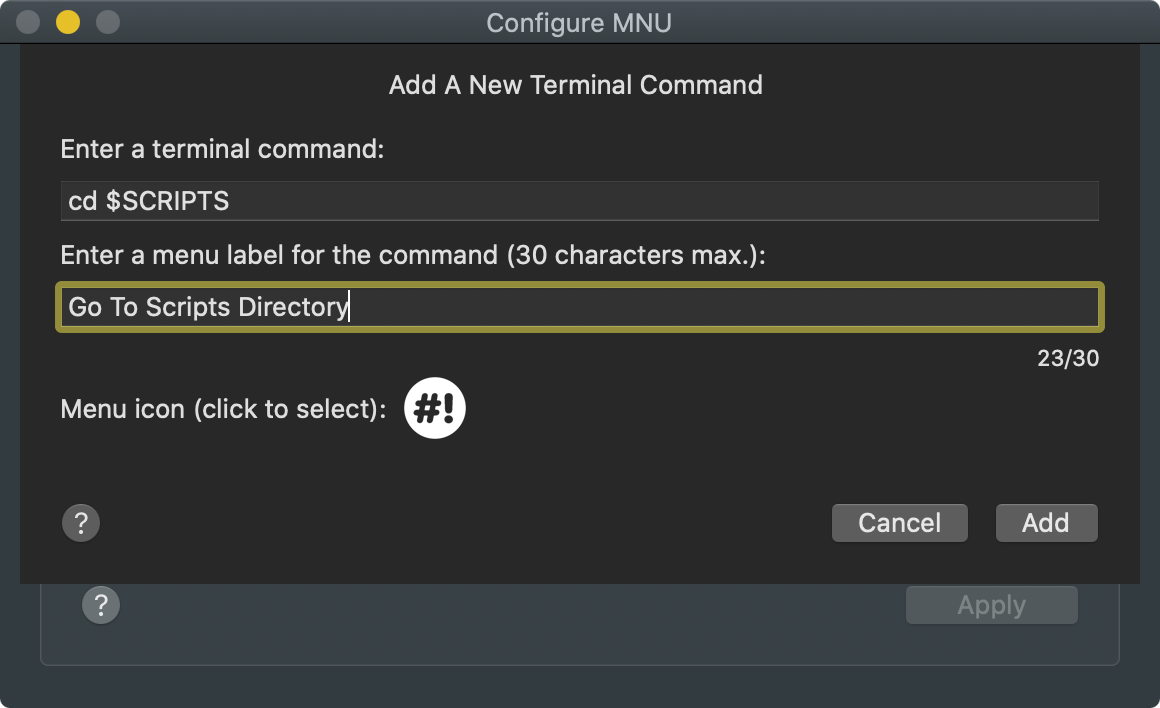
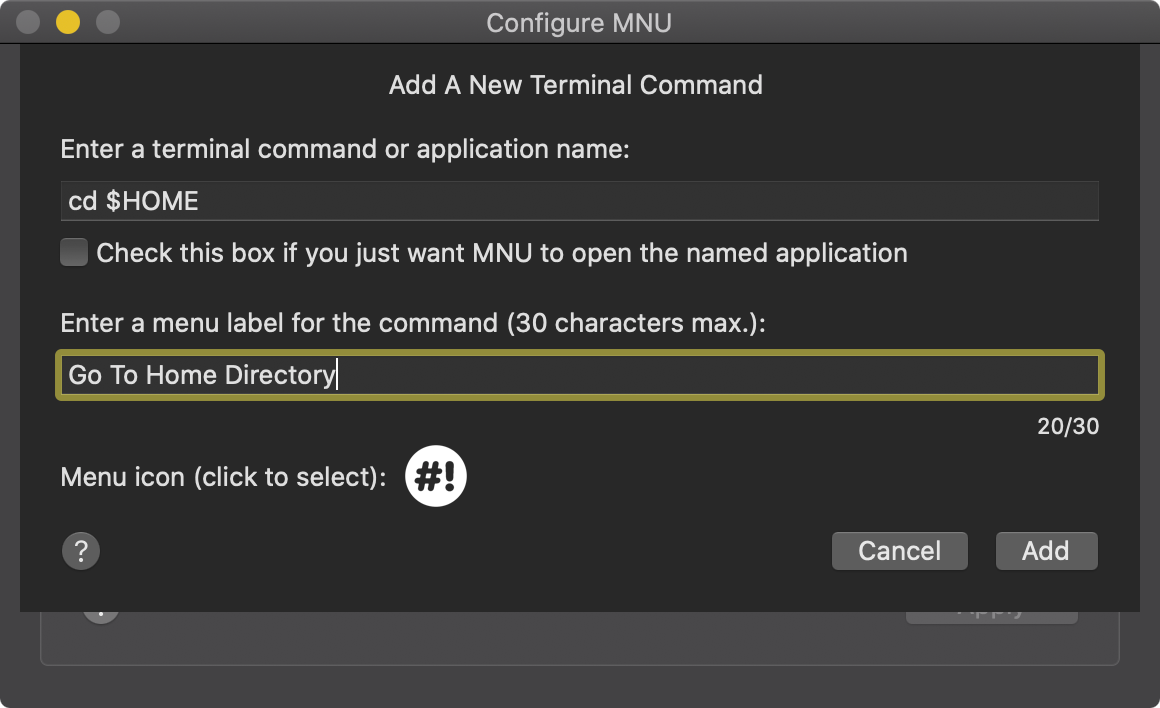
release mnu 1.2.0

diff --git a/mnu/index.html b/mnu/index.html
@@ -29,13 +29,13 @@
     <div class="collapse navbar-collapse" id="navbarNavAltMarkup">
         <ul class="nav navbar-nav mr-auto">
             
-            <li class="nav-item"><a class="nav-link" href="#using-mnu">Using MNU</a></li>
+            <li class="nav-item"><a class="nav-link" href="#how-to-use-mnu-">How to Use MNU</a></li>
             
-            <li class="nav-item"><a class="nav-link" href="#configuring-mnu">Configuring MNU</a></li>
+            <li class="nav-item"><a class="nav-link" href="#how-to-configure-mnu-">How To Configure MNU</a></li>
             
-            <li class="nav-item"><a class="nav-link" href="#release-notes">Release Notes</a></li>
+            <li class="nav-item"><a class="nav-link" href="#release-notes-">Release Notes</a></li>
             
-            <li class="nav-item"><a class="nav-link" href="#source-code">Source Code</a></li>
+            <li class="nav-item"><a class="nav-link" href="#source-code-">Source Code</a></li>
             
         </ul>
         <ul class="nav navbar-nav navbar-right">
@@ -50,7 +50,7 @@
                     <h2 class="text-center">MNU</h2>
                     <h3 class="text-center">A macOS menu bar utility</h3>
                     
-<h4 class="text-center">Latest Release: <a class="link" href="#release-notes">1.1.1</a></h4>
+<h4 class="text-center">Latest Release: <a class="link" href="#release-notes-">1.2.0</a></h4>
 
 <p>&nbsp;</p>
                     <div class="dloadpanel">
@@ -60,7 +60,7 @@
         <tbody>
             <tr>
                 <th scope="col-3 col-lg-2" width="20%"><b>File</b>&nbsp;</th>
-                <td scope="col-9 col-lg-10" width="80%"><a class="link" id="url" href="../files/mnu/mnu_1_1_1.dmg">mnu_1_1_1.dmg</a></td>
+                <td scope="col-9 col-lg-10" width="80%"><a class="link" id="url" href="../files/mnu/mnu_1_2_0.dmg">mnu_1_2_0.dmg</a></td>
             </tr>
             <tr>
                 <th scope="row"><b>File Size</b>&nbsp;</th>
@@ -68,7 +68,7 @@
             </tr>
             <tr>
                 <th scope="row"><b>SHA 256</b>&nbsp;</th>
-                <td id="sha256">e4ae377c5949d3f32991b65063fb7b6160ebda121a5accc1a09d08b80ac21817 </td>
+                <td id="sha256">fe400c1a94b540225ce686d50f031173e649e88b9cf2386f8c4d0acf800767a1 </td>
             </tr>
         <tbody>
     </table>
@@ -120,6 +120,10 @@
 <p>Items you have added can be deleted from the list, or they can be edited if you need to make a change: just click on the delete or edit buttons, respectively:</p>
 <p align="center"><img class="img-fluid" src="../images/mnu/edit_item.png"></p>
 <p>When MNU quits — you have restarted or shutdown your Mac, or you have clicked the quit icon at the bottom of the menu — it saves the current state of the menu so it’s ready for next time.</p>
+<h4 id="opening-applications-">Opening Applications</h4>
+<p>From version 1.2.0, MNU also allows you to name apps that can then be activated from the menu bar. Add a new item as outlined above, but this time simply enter the name of the application and tick the <strong>Check this box if you just want MNU to open the named application</strong> checkbox:</p>
+<p align="center"><img class="img-fluid" src="../images/mnu/add_new_item_3.png"></p>
+<p>Click <strong>Add</strong> and then <strong>Apply</strong>. When you select the application from MNU, it will be opened without first opening the macOS Terminal.</p>
 <p class="linktext" align="right"><a class="link" href="#ctop">Back to the Top</a></p>
 <hr />
 <h3 id="how-to-backup-and-restore-your-menu-items-">How to Backup and Restore Your Menu Items</h3>
@@ -150,6 +154,11 @@
 <hr />
 <h3 id="release-notes-">Release Notes</h3>
 <ul>
+<li>1.2.0
+<ul>
+<li>Add app opening.</li>
+</ul>
+</li>
 <li>1.1.1
 <ul>
 <li>Add app restart installer scripts.</li>

diff --git a/valley/index.html b/valley/index.html
@@ -29,13 +29,13 @@
     <div class="collapse navbar-collapse" id="navbarNavAltMarkup">
         <ul class="nav navbar-nav mr-auto">
             
-            <li class="nav-item"><a class="nav-link" href="#how-to-play-the-valley">How To Play The Valley</a></li>
+            <li class="nav-item"><a class="nav-link" href="#how-to-play-the-valley-">How To Play The Valley</a></li>
             
-            <li class="nav-item"><a class="nav-link" href="#the-history-of-the-game">The History Of The Game</a></li>
+            <li class="nav-item"><a class="nav-link" href="#the-history-of-the-game-">The History Of The Game</a></li>
             
-            <li class="nav-item"><a class="nav-link" href="#release-notes">Release Notes</a></li>
+            <li class="nav-item"><a class="nav-link" href="#release-notes-">Release Notes</a></li>
             
-            <li class="nav-item"><a class="nav-link" href="#source-code">Source Code</a></li>
+            <li class="nav-item"><a class="nav-link" href="#source-code-">Source Code</a></li>
             
         </ul>
         <ul class="nav navbar-nav navbar-right">
@@ -50,7 +50,7 @@
                     <h2 class="text-center">The Valley</h2>
                     <h3 class="text-center">A macOS port of a 1982 real-time RPG</h3>
                     
-<h4 class="text-center">Latest Release: <a class="link" href="#release-notes">1.0.7</a></h4>
+<h4 class="text-center">Latest Release: <a class="link" href="#release-notes-">1.0.7</a></h4>
 
 <p>&nbsp;</p>
                     <div class="dloadpanel">

diff --git a/fightingfantasy/index.html b/fightingfantasy/index.html
@@ -29,11 +29,11 @@
     <div class="collapse navbar-collapse" id="navbarNavAltMarkup">
         <ul class="nav navbar-nav mr-auto">
             
-            <li class="nav-item"><a class="nav-link" href="#how-to-use-fighting-fantasy-game-manager">How to Use Fighting Fantasy Game Manager</a></li>
+            <li class="nav-item"><a class="nav-link" href="#how-to-use-fighting-fantasy-game-manager-">How to Use Fighting Fantasy Game Manager</a></li>
             
-            <li class="nav-item"><a class="nav-link" href="#release-notes">Release Notes</a></li>
+            <li class="nav-item"><a class="nav-link" href="#release-notes-">Release Notes</a></li>
             
-            <li class="nav-item"><a class="nav-link" href="#source-code">Source Code</a></li>
+            <li class="nav-item"><a class="nav-link" href="#source-code-">Source Code</a></li>
             
         </ul>
         <ul class="nav navbar-nav navbar-right">
@@ -48,7 +48,7 @@
                     <h2 class="text-center">Fighting Fantasy Game Manager</h2>
                     <h3 class="text-center">A macOS program to help you play Fighting Fantasy Gamebooks</h3>
                     
-<h4 class="text-center">Latest Release: <a class="link" href="#release-notes">3.0.15</a></h4>
+<h4 class="text-center">Latest Release: <a class="link" href="#release-notes-">3.0.15</a></h4>
 
 <p>&nbsp;</p>
                     

diff --git a/previewmarkdown/index.html b/previewmarkdown/index.html
@@ -29,11 +29,11 @@
     <div class="collapse navbar-collapse" id="navbarNavAltMarkup">
         <ul class="nav navbar-nav mr-auto">
             
-            <li class="nav-item"><a class="nav-link" href="#how-to-use-previewmarkdown">How to Use PreviewMarkdown</a></li>
+            <li class="nav-item"><a class="nav-link" href="#how-to-use-previewmarkdown-">How to Use PreviewMarkdown</a></li>
             
-            <li class="nav-item"><a class="nav-link" href="#release-notes">Release Notes</a></li>
+            <li class="nav-item"><a class="nav-link" href="#release-notes-">Release Notes</a></li>
             
-            <li class="nav-item"><a class="nav-link" href="#source-code">Source Code</a></li>
+            <li class="nav-item"><a class="nav-link" href="#source-code-">Source Code</a></li>
             
         </ul>
         <ul class="nav navbar-nav navbar-right">
@@ -48,7 +48,7 @@
                     <h2 class="text-center">PreviewMarkdown</h2>
                     <h3 class="text-center">A tool to generate Markdown file QuickLook previews for macOS Catalina</h3>
                     
-<h4 class="text-center">Latest Release: <a class="link" href="#release-notes">1.0.3</a></h4>
+<h4 class="text-center">Latest Release: <a class="link" href="#release-notes-">1.0.3</a></h4>
 
 <p>&nbsp;</p>
                     <div class="dloadpanel">

diff --git a/bash-scripts/index.html b/bash-scripts/index.html
@@ -29,15 +29,15 @@
     <div class="collapse navbar-collapse" id="navbarNavAltMarkup">
         <ul class="nav navbar-nav mr-auto">
             
-            <li class="nav-item"><a class="nav-link" href="#tools-and-utilities">Tools And Utilities</a></li>
+            <li class="nav-item"><a class="nav-link" href="#tools-and-utilities-">Tools And Utilities</a></li>
             
-            <li class="nav-item"><a class="nav-link" href="#xcode-and-development">Xcode And Development</a></li>
+            <li class="nav-item"><a class="nav-link" href="#xcode-and-development-">Xcode And Development</a></li>
             
-            <li class="nav-item"><a class="nav-link" href="#mac-setup-and-config">Mac Setup And Config</a></li>
+            <li class="nav-item"><a class="nav-link" href="#mac-setup-and-config-">Mac Setup And Config</a></li>
             
-            <li class="nav-item"><a class="nav-link" href="#raspberry-pi">Raspberry Pi</a></li>
+            <li class="nav-item"><a class="nav-link" href="#raspberry-pi-">Raspberry Pi</a></li>
             
-            <li class="nav-item"><a class="nav-link" href="#source-code">Source Code</a></li>
+            <li class="nav-item"><a class="nav-link" href="#source-code-">Source Code</a></li>
             
         </ul>
         <ul class="nav navbar-nav navbar-right">

diff --git a/xbeeparser/index.html b/xbeeparser/index.html
@@ -29,11 +29,11 @@
     <div class="collapse navbar-collapse" id="navbarNavAltMarkup">
         <ul class="nav navbar-nav mr-auto">
             
-            <li class="nav-item"><a class="nav-link" href="#how-to-use-xbeeparser">How To Use XBeeParser</a></li>
+            <li class="nav-item"><a class="nav-link" href="#how-to-use-xbeeparser-">How To Use XBeeParser</a></li>
             
-            <li class="nav-item"><a class="nav-link" href="#release-notes">Release Notes</a></li>
+            <li class="nav-item"><a class="nav-link" href="#release-notes-">Release Notes</a></li>
             
-            <li class="nav-item"><a class="nav-link" href="#source-code">Source Code</a></li>
+            <li class="nav-item"><a class="nav-link" href="#source-code-">Source Code</a></li>
             
         </ul>
         <ul class="nav navbar-nav navbar-right">
@@ -48,7 +48,7 @@
                     <h2 class="text-center">XBeeParser</h2>
                     <h3 class="text-center">A utility to decode data packets sent to or received by Digi XBee modules</h3>
                     
-<h4 class="text-center">Latest Release: <a class="link" href="#release-notes">1.0.4</a></h4>
+<h4 class="text-center">Latest Release: <a class="link" href="#release-notes-">1.0.4</a></h4>
 
 <p>&nbsp;</p>
                     

diff --git a/controller/index.html b/controller/index.html
@@ -29,11 +29,11 @@
     <div class="collapse navbar-collapse" id="navbarNavAltMarkup">
         <ul class="nav navbar-nav mr-auto">
             
-            <li class="nav-item"><a class="nav-link" href="#how-to-use-controller">How To Use Controller</a></li>
+            <li class="nav-item"><a class="nav-link" href="#how-to-use-controller-">How To Use Controller</a></li>
             
-            <li class="nav-item"><a class="nav-link" href="#release-notes">Release Notes</a></li>
+            <li class="nav-item"><a class="nav-link" href="#release-notes-">Release Notes</a></li>
             
-            <li class="nav-item"><a class="nav-link" href="#source-code">Source Code</a></li>
+            <li class="nav-item"><a class="nav-link" href="#source-code-">Source Code</a></li>
             
         </ul>
         <ul class="nav navbar-nav navbar-right">
@@ -48,7 +48,7 @@
                     <h2 class="text-center">Controller</h2>
                     <h3 class="text-center">An iOS and watchOS combo for controlling Internet of Things projects</h3>
                     
-<h4 class="text-center">Latest Release: <a class="link" href="#release-notes">1.2.0</a></h4>
+<h4 class="text-center">Latest Release: <a class="link" href="#release-notes-">1.2.0</a></h4>
 
 <p>&nbsp;</p>
                     

diff --git a/buildapiaccess/index.html b/buildapiaccess/index.html
@@ -29,11 +29,11 @@
     <div class="collapse navbar-collapse" id="navbarNavAltMarkup">
         <ul class="nav navbar-nav mr-auto">
             
-            <li class="nav-item"><a class="nav-link" href="#about-buildapiaccess">About BuildAPIAccess</a></li>
+            <li class="nav-item"><a class="nav-link" href="#about-buildapiaccess-">About BuildAPIAccess</a></li>
             
-            <li class="nav-item"><a class="nav-link" href="#release-notes">Release Notes</a></li>
+            <li class="nav-item"><a class="nav-link" href="#release-notes-">Release Notes</a></li>
             
-            <li class="nav-item"><a class="nav-link" href="#source-code">Source Code</a></li>
+            <li class="nav-item"><a class="nav-link" href="#source-code-">Source Code</a></li>
             
         </ul>
         <ul class="nav navbar-nav navbar-right">
@@ -48,7 +48,7 @@
                     <h2 class="text-center">BuildAPIAccess</h2>
                     <h3 class="text-center">An objective-c macOS/tvOS/iOS library for impCentral API access</h3>
                     
-<h4 class="text-center">Latest Release: <a class="link" href="#release-notes">3.3.0</a></h4>
+<h4 class="text-center">Latest Release: <a class="link" href="#release-notes-">3.3.0</a></h4>
 
 <p>&nbsp;</p>
                     

diff --git a/squinter/index.html b/squinter/index.html
@@ -29,15 +29,15 @@
     <div class="collapse navbar-collapse" id="navbarNavAltMarkup">
         <ul class="nav navbar-nav mr-auto">
             
-            <li class="nav-item"><a class="nav-link" href="#about-squinter">About Squinter</a></li>
+            <li class="nav-item"><a class="nav-link" href="#about-squinter-">About Squinter</a></li>
             
-            <li class="nav-item"><a class="nav-link" href="#how-to-use-squinter">How to Use Squinter</a></li>
+            <li class="nav-item"><a class="nav-link" href="#how-to-use-squinter-">How to Use Squinter</a></li>
             
-            <li class="nav-item"><a class="nav-link" href="#troubleshooting">Troubleshooting</a></li>
+            <li class="nav-item"><a class="nav-link" href="#troubleshooting-">Troubleshooting</a></li>
             
-            <li class="nav-item"><a class="nav-link" href="#release-notes">Release Notes</a></li>
+            <li class="nav-item"><a class="nav-link" href="#release-notes-">Release Notes</a></li>
             
-            <li class="nav-item"><a class="nav-link" href="#source-code">Source Code</a></li>
+            <li class="nav-item"><a class="nav-link" href="#source-code-">Source Code</a></li>
             
         </ul>
         <ul class="nav navbar-nav navbar-right">

diff --git a/pdfmaker/index.html b/pdfmaker/index.html
@@ -29,11 +29,11 @@
     <div class="collapse navbar-collapse" id="navbarNavAltMarkup">
         <ul class="nav navbar-nav mr-auto">
             
-            <li class="nav-item"><a class="nav-link" href="#how-to-use-pdfmaker">How to Use pdfmaker</a></li>
+            <li class="nav-item"><a class="nav-link" href="#how-to-use-pdfmaker-">How to Use pdfmaker</a></li>
             
-            <li class="nav-item"><a class="nav-link" href="#release-notes">Release Notes</a></li>
+            <li class="nav-item"><a class="nav-link" href="#release-notes-">Release Notes</a></li>
             
-            <li class="nav-item"><a class="nav-link" href="#source-code">Source Code</a></li>
+            <li class="nav-item"><a class="nav-link" href="#source-code-">Source Code</a></li>
             
         </ul>
         <ul class="nav navbar-nav navbar-right">
@@ -48,7 +48,7 @@
                     <h2 class="text-center">pdfmaker</h2>
                     <h3 class="text-center">A macOS command line tool</h3>
                     
-<h4 class="text-center">Latest Release: <a class="link" href="#release-notes">2.0.0</a></h4>
+<h4 class="text-center">Latest Release: <a class="link" href="#release-notes-">2.0.0</a></h4>
 
 <p>&nbsp;</p>
                     <div class="dloadpanel">

diff --git a/ascii/index.html b/ascii/index.html
@@ -29,11 +29,11 @@
     <div class="collapse navbar-collapse" id="navbarNavAltMarkup">
         <ul class="nav navbar-nav mr-auto">
             
-            <li class="nav-item"><a class="nav-link" href="#about-ascii">About ASCII</a></li>
+            <li class="nav-item"><a class="nav-link" href="#about-ascii-">About ASCII</a></li>
             
-            <li class="nav-item"><a class="nav-link" href="#release-notes">Release Notes</a></li>
+            <li class="nav-item"><a class="nav-link" href="#release-notes-">Release Notes</a></li>
             
-            <li class="nav-item"><a class="nav-link" href="#source-code">Source Code</a></li>
+            <li class="nav-item"><a class="nav-link" href="#source-code-">Source Code</a></li>
             
         </ul>
         <ul class="nav navbar-nav navbar-right">
@@ -48,7 +48,7 @@
                     <h2 class="text-center">ASCII</h2>
                     <h3 class="text-center">A tool to generate glyphs for 8x8 LED matrix displays</h3>
                     
-<h4 class="text-center">Latest Release: <a class="link" href="#release-notes">1.1.3</a></h4>
+<h4 class="text-center">Latest Release: <a class="link" href="#release-notes-">1.1.3</a></h4>
 
 <p>&nbsp;</p>
                     <div class="dloadpanel">

diff --git a/unicoder/index.html b/unicoder/index.html
@@ -29,11 +29,11 @@
     <div class="collapse navbar-collapse" id="navbarNavAltMarkup">
         <ul class="nav navbar-nav mr-auto">
             
-            <li class="nav-item"><a class="nav-link" href="#about-unicoder">About Unicoder</a></li>
+            <li class="nav-item"><a class="nav-link" href="#about-unicoder-">About Unicoder</a></li>
             
-            <li class="nav-item"><a class="nav-link" href="#release-notes">Release Notes</a></li>
+            <li class="nav-item"><a class="nav-link" href="#release-notes-">Release Notes</a></li>
             
-            <li class="nav-item"><a class="nav-link" href="#source-code">Source Code</a></li>
+            <li class="nav-item"><a class="nav-link" href="#source-code-">Source Code</a></li>
             
         </ul>
         <ul class="nav navbar-nav navbar-right">
@@ -48,7 +48,7 @@
                     <h2 class="text-center">Unicoder</h2>
                     <h3 class="text-center">A utility for converting UTF-8 character codes to hex strings</h3>
                     
-<h4 class="text-center">Latest Release: <a class="link" href="#release-notes">1.0.0</a></h4>
+<h4 class="text-center">Latest Release: <a class="link" href="#release-notes-">1.0.0</a></h4>
 
 <p>&nbsp;</p>
                     
